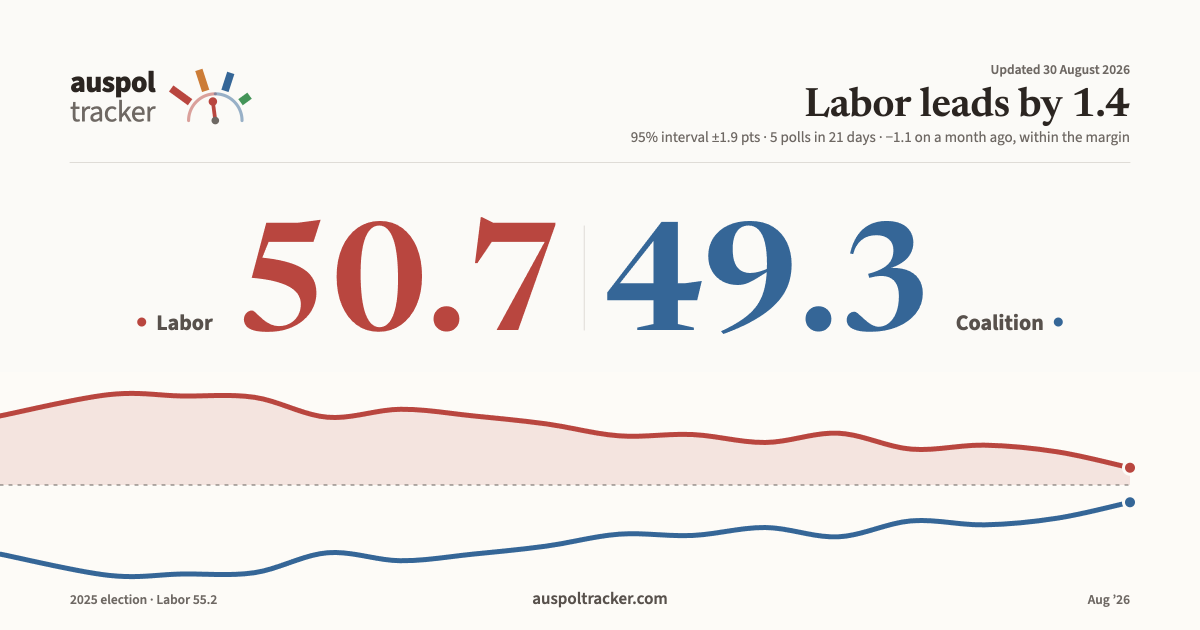
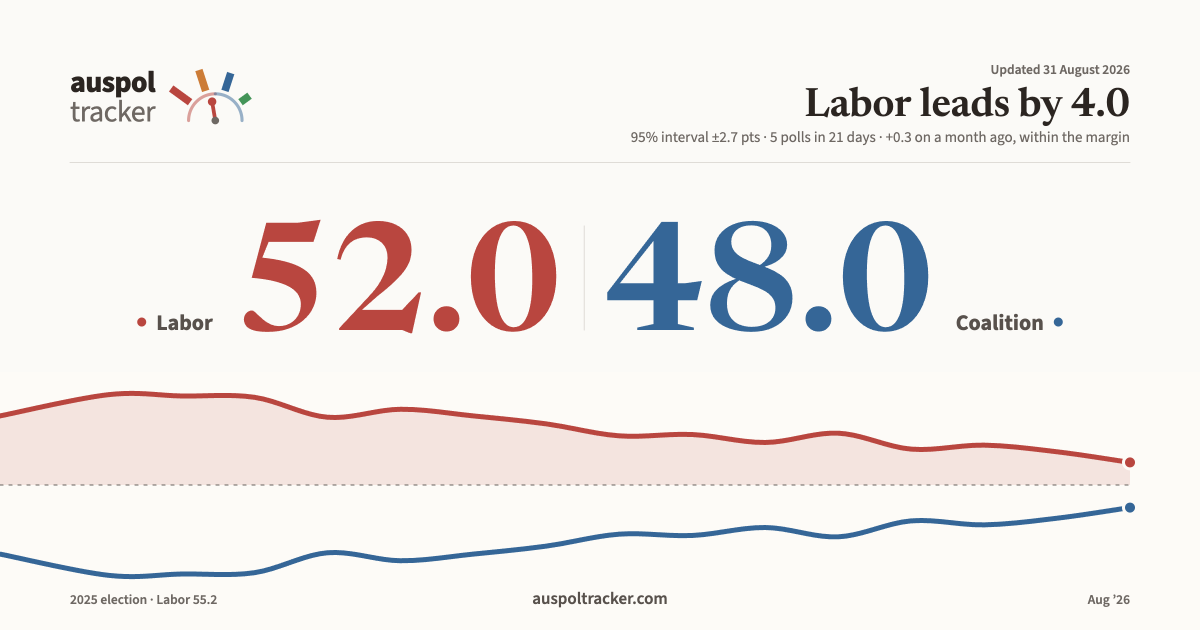
Share card: redraw for the 2026-08-31 aggregate

diff --git a/index.html b/index.html
@@ -27,7 +27,7 @@
   <meta property="og:site_name" content="auspoltracker.com">
   <meta property="og:locale" content="en_AU">
   <meta property="og:url" content="https://auspoltracker.com/">
-  <meta property="og:image" content="https://auspoltracker.com/assets/auspol-card.png?v=2026-08-30">
+  <meta property="og:image" content="https://auspoltracker.com/assets/auspol-card.png?v=2026-08-31">
   <meta property="og:image:width" content="1200">
   <meta property="og:image:height" content="630">
   <meta property="og:image:alt" content="auspol tracker: Labor 52.0, Coalition 48.0 two-party preferred, ±2.7 points, updated 30 August 2026, with the trend since the 2025 election">
